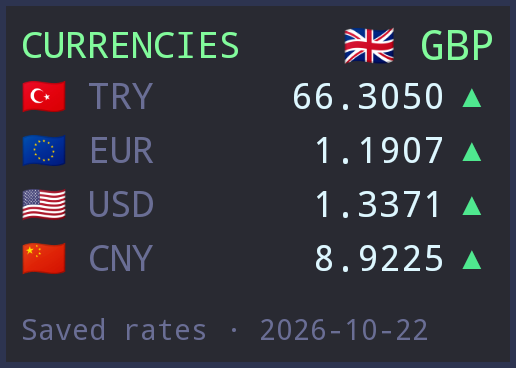
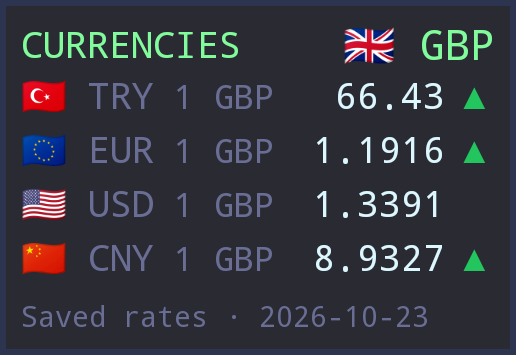
currencies 1.1: the reverse rate is worked out when the currencies swap, the arrows keep their green and red on Hackerman, and the tile starts at 3x2

diff --git a/widgets/tarikyolak/currencies/README.md b/widgets/tarikyolak/currencies/README.md
@@ -8,7 +8,8 @@ Track currencies worldwide with country flags, daily reference rates, movement a
 
 - Worldwide currency selection with searchable names and ISO codes
 - Customisable base currency and favourites
-- Green and red arrows comparing successive published rates
+- Green and red arrows track movement in the displayed exchange-rate direction
+- Automatic reversed rates when appropriate (e.g. 1 USD = 49.50 TRY when TRY is selected)
 - Built-in amount converter
 - Offline access to previously saved rates
 - Automatic exchange-rate refresh
@@ -20,7 +21,7 @@ Track currencies worldwide with country flags, daily reference rates, movement a
 - Base currency: GBP
 - Favourites: TRY, EUR, USD, CNY
 - Widget size: 3x2
-- Minimum size: 2x2
+- Minimum size: 3x2
 
 Users can change their selections at any time.
 
